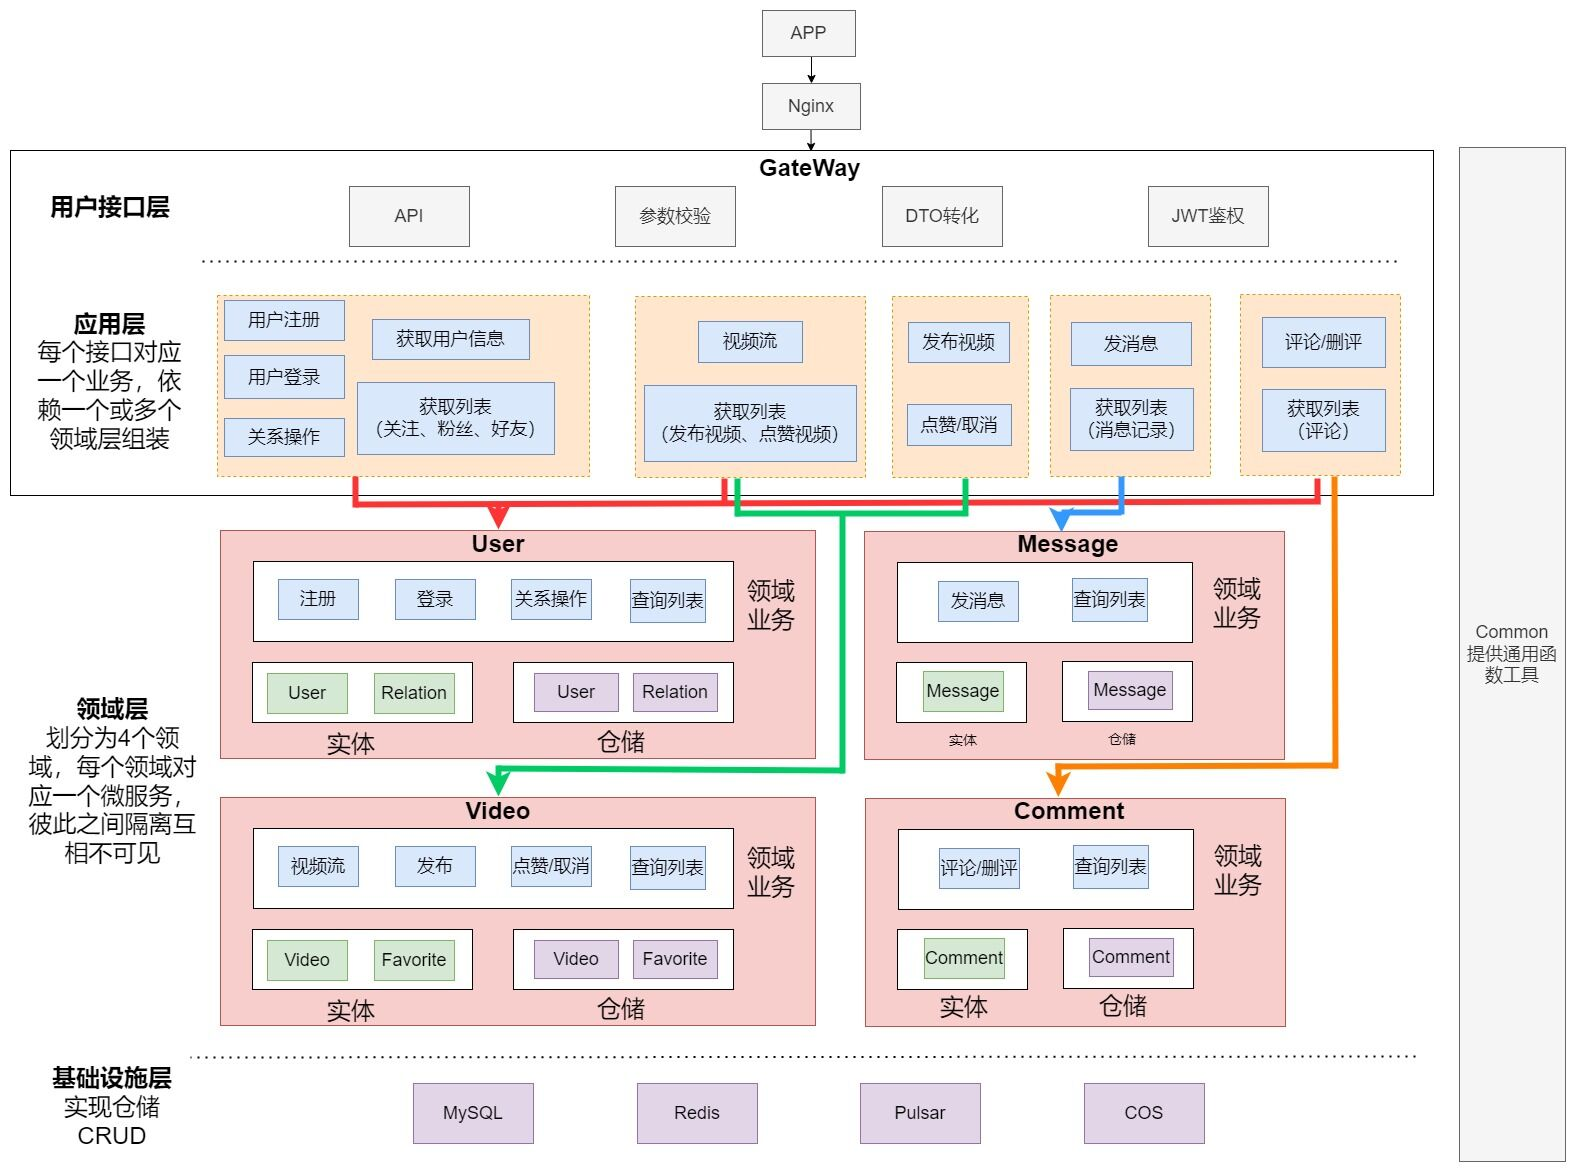
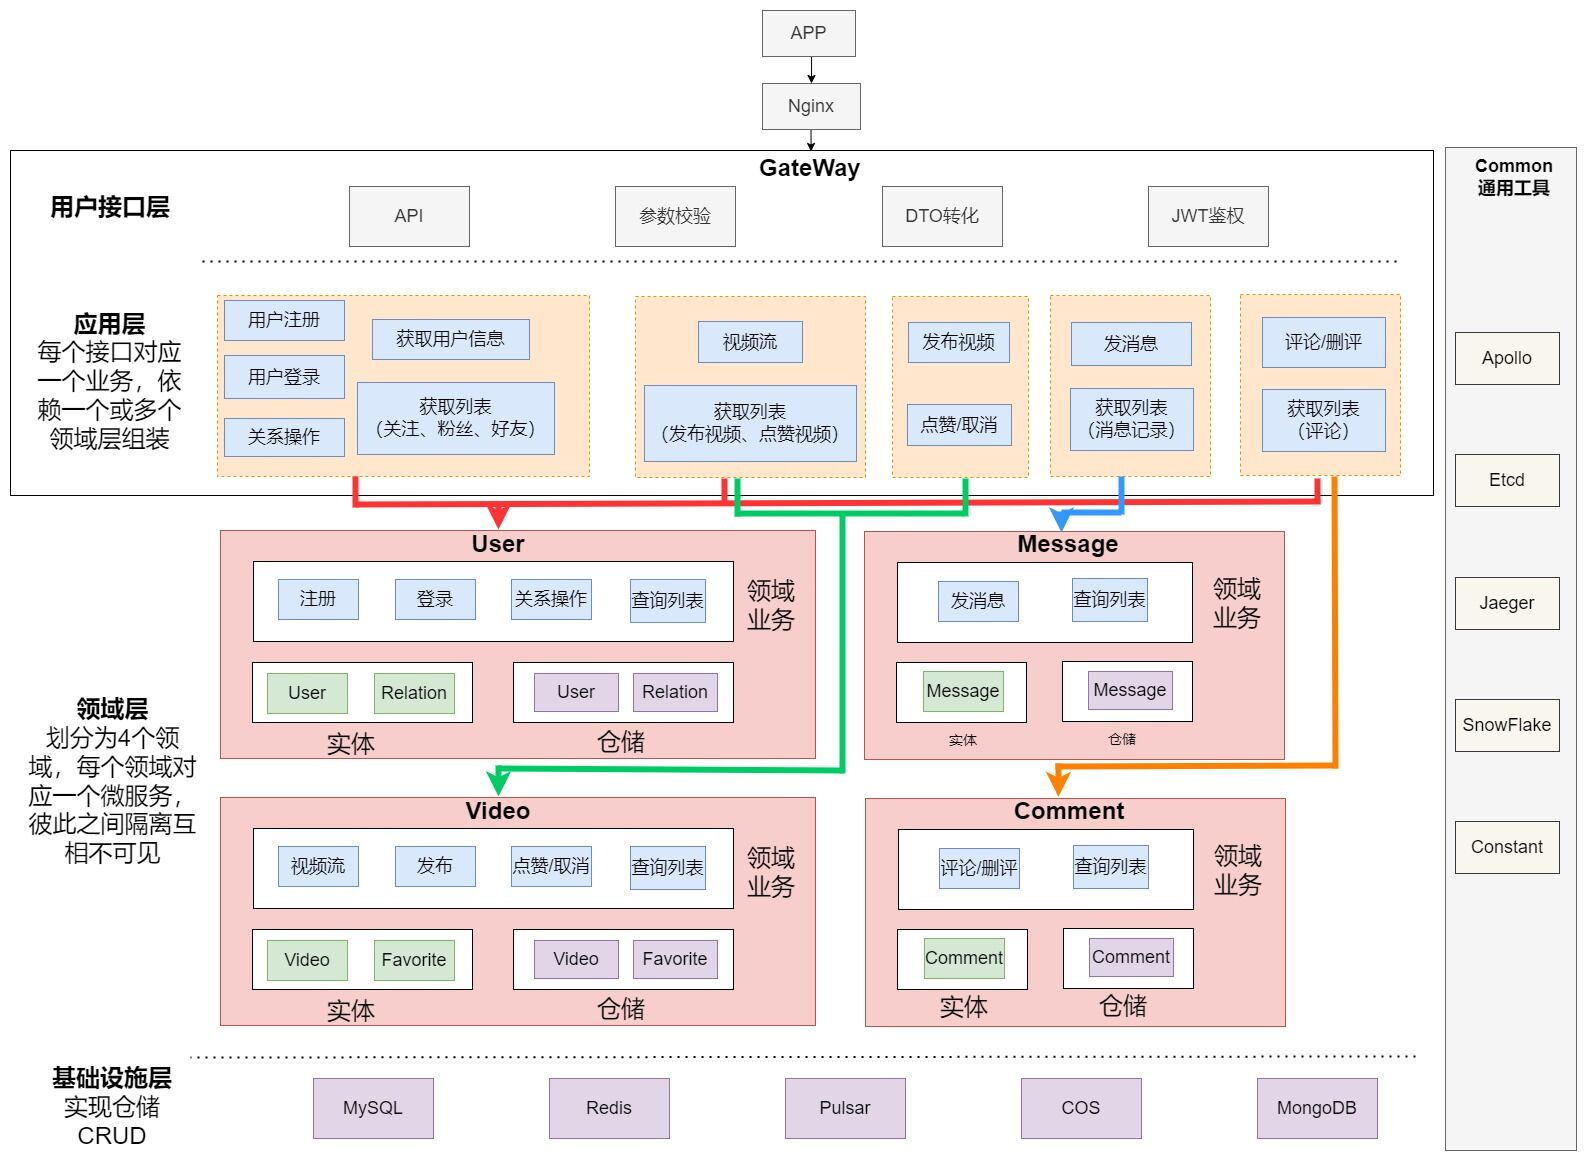
readme

diff --git a/README.md b/README.md
@@ -3,3 +3,5 @@
 https://gzd0wrb2k4.feishu.cn/docx/TlUxdrUiOoT9E8xiN4Ocwhhpnig
 ## 项目架构图
 ![avatar](架构图.jpg)
+
+本项目实现了极简版抖音后端的互动方向和社交方向全部功能，项目采用Kitex进行RPC通信，基于DDD思想划分微服务架构，合理拆解各项业务，便于团队协作开发，建立开发规范约束，使用Pulsar消息队列对其中的一些高频写操作进行异步处理，削峰处理提高系统并发和可用性；使用Otel和Jaeger实现链路追踪；采用MySQL、Redis存储配合的方式来提高性能，减少MySQL压力；通过Nginx限流、参数校验、存储加密、访问控制和登录次数限制等设计提高安全性；并且充分编写了单元测试，完成了集成测试和压力测试。
